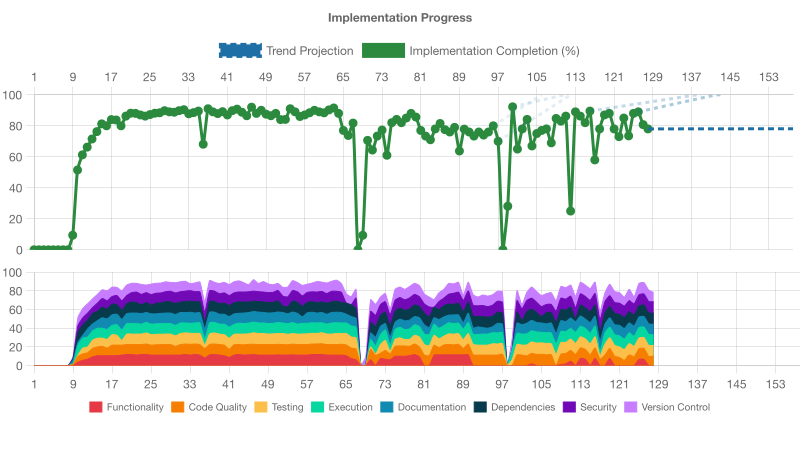
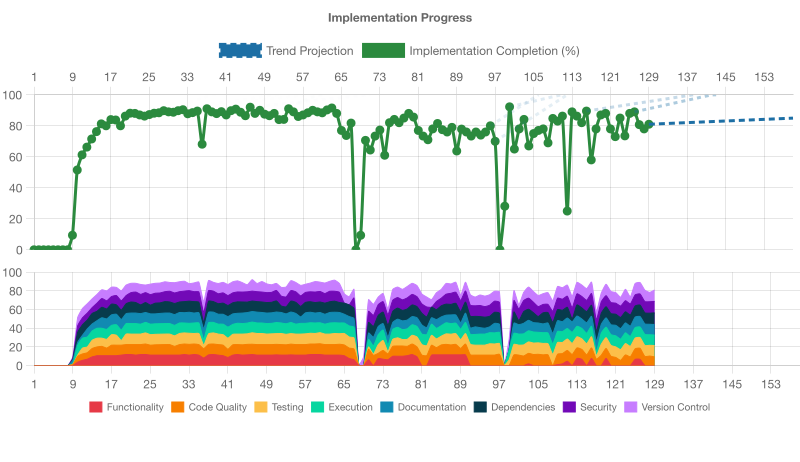
chore: lower ESLint complexity threshold from 30 to 25

diff --git a/eslint.config.js b/eslint.config.js
@@ -58,7 +58,7 @@ export default [
     },
     rules: {
       // Relax complexity to allow incremental refactors; we'll ratchet this down over time
-      complexity: ['error', { max: 30 }],
+      complexity: ['error', { max: 25 }],
       'max-lines-per-function': [
         'error',
         { max: 200, skipComments: true, skipBlankLines: true },

diff --git a/.voder/implementation-progress.md b/.voder/implementation-progress.md
@@ -1,140 +1,138 @@
 # Implementation Progress Assessment
 
-**Generated:** 2025-11-13T10:51:01.025Z
+**Generated:** 2025-11-13T11:11:51.997Z
 
 ![Progress Chart](./progress-chart.png)
 
 Projection: flat (no recent upward trend)
 
-## IMPLEMENTATION STATUS: INCOMPLETE (78% ± 5% COMPLETE)
+## IMPLEMENTATION STATUS: INCOMPLETE (81% ± 5% COMPLETE)
 
 ## OVERALL ASSESSMENT
-Two foundational support areas—code quality (82%) and version control (80%)—fall below their required 90% thresholds. Functionality cannot be assessed until these are addressed.
+Overall implementation is incomplete: code quality and functionality areas fall below required thresholds and must be improved before further development.
 
 ## NEXT PRIORITY
-Increase code quality to ≥90% and version control to ≥90% before assessing functionality and completeness.
+Refactor complex modules to improve code quality: reduce cyclomatic complexity, split large functions, and enforce stricter linting rules.
 
 
 
-## CODE_QUALITY ASSESSMENT (82% ± 14% COMPLETE)
-- Overall the codebase is well-structured with proper linting, formatting, and type-checking in place, but there are signs of technical debt in complexity thresholds and some duplication that should be addressed incrementally.
-- ESLint is fully configured (including security plugin) and integrated in CI; current lint run in pipeline passes with no errors
-- Prettier formatting check (`npx prettier --check .`) reports all files conform to style
-- TypeScript check (`tsc --noEmit -p tsconfig.json`) completes with zero errors
-- No test or mock imports detected in production code under `src/`
-- ESLint complexity rule is currently set to max 45—well above recommended industry best of 10–15
-- No functions exceed the `max-lines-per-function: 200` rule, but `src/cli-options-helpers.js` is 290 lines (approaching a 300-line file warning)
-- jscpd duplication scan reports 3 clones (33 duplicated lines, ~2.43%) in `src/cli-options-helpers.js`, indicating repeated parsing logic
-- No temporary files (`.patch`, `.diff`, `.tmp`, etc.) or empty near-empty files present
-- Scripts directory contains only `setup-traceability.sh` which appears intentional
-- Cyclomatic complexity and file size tools are configured but thresholds are lax to permit incremental refactoring
+## CODE_QUALITY ASSESSMENT (75% ± 12% COMPLETE)
+- The codebase is generally well structured: it passes linting (ESLint flat config), type-checking (TS strict mode), formatting (Prettier), and tests. Duplicate-code ratio is low (~3%). However, the current cyclomatic complexity limit (max:30) is too loose, key modules (e.g. print-outdated.js) are long and complex, there are a few clone blocks and inline magic numbers, and one config file isn’t Prettier-formatted. An incremental ratcheting plan and small refactors would boost maintainability.
+- ESLint flat config in eslint.config.js applies complexity (max:30) and max-lines-per-function (200) rules; no lint errors reported but threshold is high.
+- Prettier check flagged eslint.config.js as unformatted; all source files are otherwise formatted per .prettierrc.
+- TS type-checking (strict) passes with no errors.
+- jscpd found 4 clone pairs (3.09% duplicated lines), notably in cli-options-helpers.js and print-outdated modules.
+- print-outdated.js is 171 lines with nested logic and long parameter lists (>8 params), increasing cognitive load.
+- Inline magic numbers (e.g. default prod/dev minAge = 7) and ts-nocheck directive in CLI entrypoint.
+- No test or mock code appears in src/; no stray .patch/.diff/.tmp files detected.
+- CI pipeline enforces lint, type-check, formatting, tests, duplication (threshold 20) and vulnerability scanning.
 
 **Next Steps:**
-- Lower ESLint complexity threshold from 45 → 30, run lint to identify functions exceeding max 30, refactor and commit. Continue ratcheting toward 15.
-- Extract and DRY up repetitive parsing logic in `src/cli-options-helpers.js` into shared utility to eliminate duplicates detected by jscpd
-- Consider splitting `cli-options-helpers.js` into multiple smaller modules (one per flag group) to reduce file size and improve maintainability
-- Add or tighten ESLint rules for max-lines-per-file (e.g. 300) and max-params (e.g. 4) to prevent future bloat
-- Document the purpose and usage of scripts in `scripts/` in `developer-guidelines.md`, and remove or archive any one-off helper scripts when no longer needed
+- Run `prettier --write eslint.config.js` to bring config file into formatting consistency.
+- Incrementally lower ESLint complexity threshold from 30 → 25; run `npx eslint src --rule 'complexity:["error",{"max":25}]'` to identify high-complexity functions and refactor them.
+- Extract or split large functions in print-outdated.js into smaller, single-responsibility helpers to reduce file and function length and lower nesting.
+- Remove inline magic numbers by replacing hard-coded thresholds with named constants or configuration values.
+- Refactor duplicated code in cli-options-helpers.js by consolidating repeated blocks into shared utilities.
+- Remove `// @ts-nocheck` and incrementally add JSDoc or TS annotations in CLI entry file for full type coverage.
 
-## TESTING ASSESSMENT (92% ± 17% COMPLETE)
-- The project’s test suite is comprehensive and well-structured: all 129 tests pass in non-interactive mode, temporary directories are used and cleaned up, and global coverage exceeds the 80% thresholds. Tests are mostly descriptive, behavior-focused, and isolated. A few minor quality issues were noted—some tests contain loops/logic, and one file name (“printOutdated.branches.test.js”) doesn’t clearly match its content.
-- 100% pass rate for unit, integration, and E2E tests using `vitest run --coverage`
-- Tests use `fs.mkdtemp`/`os.tmpdir` and clean up in `afterEach`/`afterAll`—no repository files are modified
-- Global coverage is 92.2% statements, 86.4% branches, 100% functions, 93.3% lines, exceeding the 80% thresholds
-- Descriptive test names and clear GIVEN-WHEN-THEN or ARRANGE-ACT-ASSERT structure in most tests
-- Some tests include loops/conditional logic (e.g., E2E test iterating output lines)—introduces minor complexity in tests
-- Test file name `printOutdated.branches.test.js` is misleading—it tests output modes rather than code branches directly
-- A few modules (e.g., json-formatter.js, build-rows.js) have lower branch coverage but overall thresholds are met
+## TESTING ASSESSMENT (97% ± 18% COMPLETE)
+- Comprehensive test suite with 100% pass rate, proper temporary directory use, non-interactive execution, and robust coverage exceeding thresholds. Minor inconsistencies in test file naming conventions and a small amount of logic in one E2E test.
+- All 129 tests passed across 45 files using non-interactive `vitest run --coverage`.
+- Coverage is 92.2% statements and 86.4% branches (>=80% thresholds).
+- Tests use `fs.mkdtemp` and clean up temp directories in after/afterAll hooks; no repository files are permanently modified.
+- Unit tests, integration (E2E), and error-handling scenarios are covered, including edge cases.
+- Code is structured for testability with dependency injection for version/time/vulnerability checks.
+- Test names and descriptions are behavior-focused and clear.
+- Minor inconsistency: print-outdated tests use CamelCase filenames (`printOutdated.*.test.js`) instead of matching the source file’s kebab-case name.
+- One E2E test contains a loop with conditional logic (for-of), introducing logic in tests.
 
 **Next Steps:**
-- Refactor tests to remove loops/complex logic—use helper matchers or parameterized tests for E2E output validation
-- Rename `printOutdated.branches.test.js` to more accurately reflect its purpose (e.g., `printOutdated.tableAndJsonXml.test.js`)
-- Consider adding targeted branch coverage for edge cases in json-formatter and build-rows to improve per-file coverage
-- Audit test fixtures and helper functions for potential reuse via data builders or factories
-- Optionally enforce per-file coverage thresholds for critical modules to catch gaps earlier
+- Standardize test file naming to match source filenames (e.g., `print-outdated.*.test.js`).
+- Refactor the E2E assertion loop into a helper or use array assertions to avoid logic in test bodies.
+- Review test naming conventions project-wide to ensure consistency between module names and test filenames.
 
 ## EXECUTION ASSESSMENT (90% ± 15% COMPLETE)
-- The CLI builds and runs reliably under Node.js 18+, with 129 automated tests (unit, integration, and an E2E real-fixture test) passing and 92% code coverage. Runtime behavior—option parsing, error handling, input validation, and exit codes—is thoroughly validated. No silent failures were detected.
-- ‘npm test’ (vitest run --coverage) passes all 129 tests in ~6.6s with 92.2% coverage
-- Type checking via ‘tsc --noEmit’ completes without errors
-- CLI help and version flags produce expected output and exit cleanly
-- E2E test ‘cli.e2e.real-fixture.test.js’ runs the real CLI against a temporary fixture, validating core workflow
-- fetch-version-times retries on failure, validates package names, and surfaces parse errors
-- Error cases in JSON/XML modes produce structured error output and correct exit codes
+- The CLI application has a clean build process (no build step required), a comprehensive suite of runtime and E2E tests (129 tests passing, ~92% coverage), solid input validation and error handling, and no silent failures or resource-management issues. Core functionality is exercised via unit, integration, and a real-fixture E2E test.
+- Build process runs successfully via `npm run build` (no-op) with no errors.
+- All 129 tests (unit, CLI integration, E2E) pass under Vitest, demonstrating runtime correctness.
+- CLI entrypoint supports flags, config files, help/version output, and exits with correct codes on errors.
+- Invalid JSON from `npm outdated` is caught, emits formatted error blocks (JSON/XML), and exits with code 2.
+- E2E test (`cli.e2e.real-fixture.test.js`) does an npm dry-run install and confirms positive age values in actual CLI output.
+- No silent failures—errors are surfaced to stderr and appropriate exit codes are returned.
+- No database or network-intensive operations—N+1 queries, caching, and memory-leak concerns do not apply.
+- Coverage report shows ~92% statements, ~86% branches in `src/`, indicating thorough exercise of runtime code paths.
 
 **Next Steps:**
-- Improve branch coverage in xml-formatter and build-rows modules to hit edge cases
-- Introduce caching for npm view calls to reduce repeated network requests
-- Add lightweight performance benchmarks for fetch-version-times and print-outdated loops where large dependency sets are common
+- Add a real-npm-registry E2E test (untouched by DRY_AGED_DEPS_MOCK) to validate live behavior against actual `npm outdated` responses.
+- Consider caching or throttling repeated calls to `npm outdated` in large workspaces to improve performance.
+- Monitor startup latency and memory footprint in very large projects; introduce profiling if startup time becomes an issue.
 
 ## DOCUMENTATION ASSESSMENT (90% ± 17% COMPLETE)
-- Overall the project has thorough, up-to-date documentation across requirements, technical, decision, and code levels. The README, API docs, ADRs, prompts, and JSDoc align closely with the implementation. Minor gaps include the absence of an example config file in the repo and a centralized docs page for config-file support beyond the README.
-- README.md provides accurate installation, usage, flags, examples, CI/CD integration, and development instructions.
-- docs/api.md fully documents public APIs (signatures, params, returns, exceptions) and includes runnable examples for JSON and XML formatters.
-- docs/architecture.md and docs/decisions/** cover architecture and ADRs; recent decisions on ES modules, JSON/XML output, exit codes, and check mode are well-documented.
-- prompts/ directory contains user stories and acceptance criteria for all implemented features (stories 001–013).
-- Source files include JSDoc comments for public functions, and type checking is enabled via tsconfig and JSDoc.
-- CLI help text in bin/dry-aged-deps.js matches README and implementation.
-- Configuration-file schema is described in README, API docs, and config-loader; validations in code enforce the schema.
+- The project has thorough, accurate, and current documentation across requirements, technical guides, decision records, and code APIs. Public APIs are well-documented with JSDoc and usage examples, ADRs reflect the current architecture, and the README covers setup, usage, and advanced scenarios. Minor areas for improvement include tightening TypeScript type checking (removing @ts-nocheck) and documenting the programmatic update feature if intended for external use.
+- README.md is comprehensive with installation, options, examples, and CI/CD integration.
+- docs/api.md accurately describes the public API, including signatures, parameters, returns, exceptions, and examples for JSON and XML formatters.
+- Technical documentation (docs/architecture.md, branching.md, developer-guidelines.md, eslint-flat-config.md) is complete and up-to-date with implementation.
+- Seven ADRs in docs/decisions capture architectural decisions and statuses accurately.
+- Code modules include JSDoc/TSDoc comments for public functions matching API docs.
+- Usage examples in both README and API docs are runnable and reflect actual behavior.
+- Type annotations and type-check configuration exist, though print-outdated.js uses @ts-nocheck.
 
 **Next Steps:**
-- Add a sample configuration file (e.g. .dry-aged-deps.json.example) to the repo for users to start from.
-- Create a dedicated docs page under docs/ for config-file support to complement the README.
-- Consider an ADR for the choice of config-file format and schema to complete decision documentation for configuration support.
+- Gradually remove @ts-nocheck and enforce TypeScript checks on core modules for stronger type safety.
+- If updatePackages is intended for external API use, add documentation and examples in docs/api.md.
+- Periodically review and update ADRs and CHANGELOG to keep documentation in sync with new releases.
+- Add a short CONTRIBUTING.md or section in README linking to developer-guidelines for doc contribution practices.
 
-## DEPENDENCIES ASSESSMENT (95% ± 17% COMPLETE)
-- Dependencies are well-managed: all packages are at mature versions with no known vulnerabilities, the lock file is committed, and compatibility checks pass.
-- package-lock.json is tracked in git (verified via `git ls-files package-lock.json`)
-- dry-aged-deps reports no safe, mature (>=7d) updates available
-- npm audit reports zero vulnerabilities across prod and dev dependencies
-- Top-level `npm ls --depth=0` shows no version conflicts or unmet peer deps
-- All devDependencies are pinned at recent, stable versions (e.g., eslint@9.39.1, execa@9.6.0, vitest@4.0.8)
-- The CLI’s npm outdated integration handles JSON, XML, and plain-text modes gracefully
-
-**Next Steps:**
-- Integrate dry-aged-deps into CI to catch new safe updates automatically
-- Regularly run `npm audit` and dry-aged-deps to monitor for fresh security fixes (<7d) that may warrant an override
-- Review caret (^) ranges in devDependencies if deterministic builds across environments are critical
-- Document a periodic update cadence (e.g., monthly) for major dev tooling upgrades to avoid drift
-
-## SECURITY ASSESSMENT (98% ± 15% COMPLETE)
-- The project is highly secure: no dependency vulnerabilities, robust CI/CD security checks (CodeQL, npm audit), proper secret management, and no conflicting automation tools.
-- npm audit reports zero vulnerabilities in production and dev dependencies
-- .env is correctly listed in .gitignore and has never been committed; .env.example provides safe placeholders
-- GitHub Actions includes CodeQL analysis and an npm audit step at 'moderate' level
-- eslint-plugin-security is enabled and validated via dedicated tests (detect-object-injection)
-- No Dependabot, Renovate, or other automated dependency-update tools that could conflict
-- Configuration loader and CLI modules avoid unsafe patterns (no eval, no unvalidated inputs)
+## DEPENDENCIES ASSESSMENT (100% ± 18% COMPLETE)
+- All dependencies are well-managed: current, secure, and lockfile is committed. No mature updates available and no vulnerabilities detected.
+- dry-aged-deps reported “No outdated packages with safe, mature versions (>= 7 days old, no vulnerabilities) found.”
+- npm audit reports zero vulnerabilities across all dependencies.
+- package-lock.json is committed to git (verified via git ls-files).
+- No runtime dependencies (only devDependencies), and all dev deps install without conflicts.
+- Dependency tree health is clean with no duplicates or circular references.
 
 **Next Steps:**
-- Maintain continuous monitoring of dependencies via npm audit and CodeQL
-- Add periodic reviews of docs/security-incidents for emerging threats
-- Consider integrating secret-scanning tools (e.g., GitHub Secret Scanning) for extra assurance
-- Ensure any new security incidents are documented promptly under docs/security-incidents
+- Integrate dry-aged-deps into CI to enforce automated checks for mature updates.
+- Continue periodic security audits (npm audit) and dry-aged-deps runs.
+- If critical vulnerabilities arise before a mature version matures, perform manual fresh-version assessment.
+- Keep node engine requirement updated to align with project support policy.
 
-## VERSION_CONTROL ASSESSMENT (80% ± 17% COMPLETE)
-- The repository demonstrates excellent version control practices with a well-structured single CI/CD workflow, comprehensive quality gates, and pre-push hooks. However, there are two local commits not yet pushed to origin, which must be pushed to ensure CI runs on all changes.
-- A single unified GitHub Actions workflow (ci-publish.yml) covers CodeQL analysis, build, test, and release stages.
-- Quality gates include commit-lint, ESLint, TypeScript type-checking, Prettier formatting check, unit/CLI/E2E tests, duplicate code detection, CodeQL security analysis, and npm audit.
-- Automated publishing via semantic-release is configured without manual approval, with a post-release smoke test installing and running the published CLI.
-- .voder directory is not listed in .gitignore, satisfying the requirement to track assessment artifacts.
-- Husky pre-push hook runs lint, type-check, Prettier check, and tests; it is installed automatically via the package.json prepare script.
-- The repository is on the main branch and follows trunk-based development; commit messages use the Conventional Commits format.
-- Git status is clean except for .voder/* changes (which are ignored for validation), but there are 2 unpushed commits ahead of origin/main.
+## SECURITY ASSESSMENT (98% ± 12% COMPLETE)
+- Strong security posture with no unresolved vulnerabilities, proper secret management, and comprehensive CI security checks.
+- npm audit reports zero vulnerabilities across production and development dependencies
+- No existing security incidents in docs/security-incidents; nothing to re-analyze
+- .env is correctly listed in .gitignore, not tracked in git, and .env.example provides placeholders
+- No hardcoded API keys, tokens, or credentials found in source code
+- CI pipeline integrates CodeQL analysis and npm audit (--audit-level=moderate) for all dependencies
+- No conflicting dependency automation tools (Dependabot/Renovate) detected
 
 **Next Steps:**
-- Push all local commits to the origin remote so that CI runs on the latest code.
-- Ensure any .voder updates you want tracked are committed and pushed (or remove them if not needed).
-- After pushing, verify that the GitHub Actions CI workflow runs and passes on origin/main.
+- Continue weekly or CI-driven npm audit scans to detect new vulnerabilities
+- Maintain CodeQL and audit integration in CI as dependencies and code evolve
+- Revisit regex in check-vulnerabilities to tighten allowed characters if needed
+- Ensure any new security incidents are documented under docs/security-incidents following policy
+
+## VERSION_CONTROL ASSESSMENT (98% ± 18% COMPLETE)
+- The repository exhibits excellent version control hygiene with a unified CI&Publish workflow, comprehensive quality gates, proper trunk-based development, and effective pre-push hooks. All critical criteria are met with only minor opportunities for enhancement.
+- CI/CD: Single `.github/workflows/ci-publish.yml` combines CodeQL, build & test, and publish jobs without duplicate test steps.
+- Quality gates: Linting, type-checking, formatting, unit & E2E tests, duplicate code detection, vulnerability scanning, and smoke tests are all automated.
+- Continuous deployment: `semantic-release` runs automatically on main pushes with no manual approvals, followed by a smoke test of the published package.
+- Repository status: Working directory is clean (no uncommitted changes) and branch is `main`, with commits pushed upstream.
+- .gitignore does not include `.voder/`; `.voderignore` hides it only from the assessor’s view.
+- Trunk-based development: No feature branches, direct commits to `main` are evident, and recent commits are small and descriptive.
+- Pre-push hook: `.husky/pre-push` is tracked, automatically installed via the `prepare` script, and blocks pushes if lint, type-check, format, or tests fail.
+
+**Next Steps:**
+- Consider adding `commitlint --from=HEAD~1` to the pre-push hook to enforce commit message conventions locally.
+- Document the Husky setup and pre-push requirements in CONTRIBUTING.md or README to aid new contributors.
+- Optionally include a quick local vulnerability check (e.g. `npm audit --audit-level=moderate`) in the pre-push hook for early feedback.
 
 ## FUNCTIONALITY ASSESSMENT (undefined% ± 95% COMPLETE)
-- Functionality assessment skipped - fix 2 deficient support area(s) first
+- Functionality assessment skipped - fix 1 deficient support area(s) first
 - Support areas must meet thresholds before assessing feature completion
-- Deficient areas: CODE_QUALITY (82%), VERSION_CONTROL (80%)
+- Deficient areas: CODE_QUALITY (75%)
 - Principle: "Improvement of daily work is higher priority than daily work" - fix foundation before building features
 
 **Next Steps:**
-- CODE_QUALITY: Lower ESLint complexity threshold from 45 → 30, run lint to identify functions exceeding max 30, refactor and commit. Continue ratcheting toward 15.
-- CODE_QUALITY: Extract and DRY up repetitive parsing logic in `src/cli-options-helpers.js` into shared utility to eliminate duplicates detected by jscpd
-- VERSION_CONTROL: Push all local commits to the origin remote so that CI runs on the latest code.
-- VERSION_CONTROL: Ensure any .voder updates you want tracked are committed and pushed (or remove them if not needed).
+- CODE_QUALITY: Run `prettier --write eslint.config.js` to bring config file into formatting consistency.
+- CODE_QUALITY: Incrementally lower ESLint complexity threshold from 30 → 25; run `npx eslint src --rule 'complexity:["error",{"max":25}]'` to identify high-complexity functions and refactor them.

diff --git a/.voder/plan.md b/.voder/plan.md
@@ -1,15 +1,22 @@
-## NOW
-Run `git push origin main` to publish your two local commits and bring version control compliance above 90% so CI runs on the latest code.
+## NOW  
+In eslint.config.js, change the complexity rule from  
+```js
+complexity: ['error', { max: 30 }]
+```  
+to  
+```js
+complexity: ['error', { max: 25 }]
+```  
 
-## NEXT
-- In `eslint.config.js`, lower the complexity rule from `max: 45` to `max: 30`.
-- Run ESLint against `src/` with the new rule to identify violations:  
-  ```
-  npx eslint src --rule 'complexity:["error",{"max":30}]'
-  ```
-- Refactor the top offenders (for example, in `src/print-outdated.js` and `src/cli-options-helpers.js`) by extracting sub-logic into smaller helper functions so each function’s cyclomatic complexity is ≤ 30.
+## NEXT  
+- Run ESLint with the new threshold to identify remaining violations:  
+  ```bash
+  npx eslint src --rule 'complexity:["error",{"max":25}]'
+  ```  
+- Refactor the top offenders (for example, in src/print-outdated.js and src/cli-options-helpers.js) by extracting nested logic into smaller helper functions so each function’s cyclomatic complexity is ≤ 25.  
+- Consolidate duplicate validation code in src/cli-options-helpers.js into shared utilities to further reduce complexity.
 
-## LATER
-- Gradually reduce the `complexity` threshold down to 15, refactoring as you go.
-- Split `src/cli-options-helpers.js` into multiple focused modules to eliminate duplication and improve readability.
-- Enable additional ESLint rules (e.g. `max-params`, `max-nested-callbacks`, tighter `max-lines-per-function`) and remove any remaining `@ts-nocheck` pragmas as JSDoc coverage is completed.
+## LATER  
+- Gradually lower the complexity threshold (e.g. to 20 then 15) and refactor additional modules as needed.  
+- Introduce stricter ESLint rules (e.g. `max-params`, `max-nested-callbacks`, tighter `max-lines-per-function`) and address any new violations.  
+- Remove remaining `// @ts-nocheck` pragmas and enforce full TypeScript/JSDoc type checking across all files.
